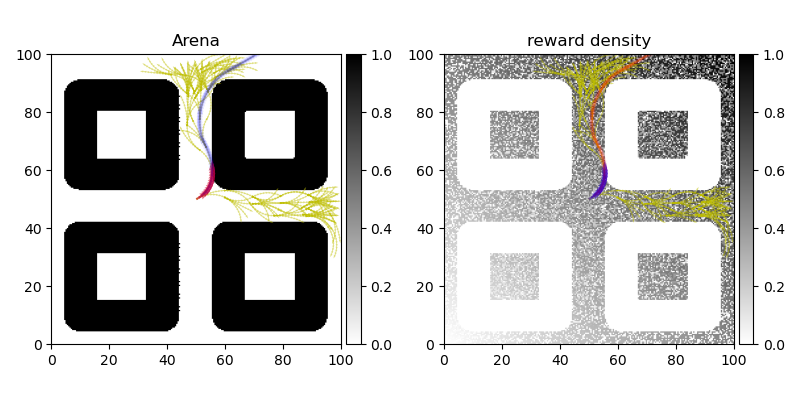
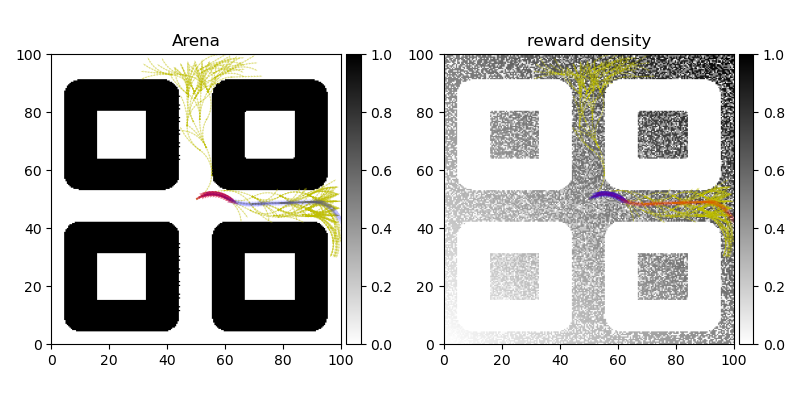
fixed collision bug

Changed region(s): [[0.5312, 0.12, 0.9375, 0.87], [0.1875, 0.12, 0.4375, 0.66], [0.5938, 0.63, 0.6875, 0.75]]

diff --git a/mcts/algorithm/mcts.py b/mcts/algorithm/mcts.py
@@ -102,7 +102,13 @@ class MCTS:
 
         if not self.root_node.children:
             return self.run(state, rewards, arena)
-        return self.best_action(self.root_node)
+        
+        if not self.root_node.children:
+            return None
+
+        max_index = np.argmax([child.reward / child.n_visits for child in self.root_node.children])
+
+        return self.root_node.children[max_index].primitive
 
     def _select(self, node):
         # Select this node if it has some unvisited primitives
@@ -130,7 +136,33 @@ class MCTS:
             max_index = np.argmax(ucb_metric)
             return self._select(node.children[max_index])
 
-    def boundary_check(self, action):
+
+
+    def _expand(self, parent):
+        # Randomly select an primitive from the available primitives
+        action_idx = parent.pending_primitives[0]
+        del parent.pending_primitives[0]
+        primitive = self.p_actions.get_sweep(parent.step, action_idx)
+
+        # Check whether this primitive is valid
+        coords = self.__mapping(primitive[:, :2], self.arena_bounds, self.row_bounds, self.col_bounds)
+        is_valid_move = self.__is_valid(coords, primitive)
+        # Create the child node and attach it to its parent
+        child = None
+        if is_valid_move:
+            pose = primitive[-1]
+            rewards = self.rewards[coords[:, 0], coords[:, 1]]
+            reward = np.sum(rewards, axis=0)
+            child = Node(pose, self.n_primitives, reward, primitive, parent)
+            parent.add_child(child)
+        return child
+
+    def __is_valid(self, coord, primitive):
+        is_inside_boundary = self.__check_boundary_overlap(primitive)
+        is_outside_obstacle = self.__is_move_in_obstacle(coord)
+        return is_inside_boundary and is_outside_obstacle
+
+    def __check_boundary_overlap(self, action):
         if np.any(action[:, 0] <= self.arena_bounds[0]):
             return False
         if np.any(action[:, 0] >= self.arena_bounds[1]):
@@ -141,33 +173,11 @@ class MCTS:
             return False
         return True
 
-    def collision_check(self, coords):
+    def __is_move_in_obstacle(self, coords):
         occupied = self.arena[coords[:, 0], coords[:, 1]]
         if np.any(occupied):
             return False
         return True
-
-    def _expand(self, parent):
-        # Randomly select an primitive from the available primitives
-        action_idx = parent.pending_primitives[0]
-        del parent.pending_primitives[0]
-        action = self.p_actions.get_sweep(parent.step, action_idx)
-
-        # Check whether this primitive is valid
-        coords = self.__mapping(action[:, :2], self.arena_bounds, self.row_bounds, self.col_bounds)
-        is_inside_boundary = self.boundary_check(action)
-        is_outside_obstacle = self.collision_check(coords)
-        is_valid_action = is_inside_boundary and is_outside_obstacle
-
-        # Create the child node and attach it to its parent
-        child = None
-        if is_valid_action:
-            pose = action[-1]
-            rewards = self.rewards[coords[:, 0], coords[:, 1]]
-            reward = np.sum(rewards, axis=0)
-            child = Node(pose, self.n_primitives, reward, action, parent)
-            parent.add_child(child)
-        return child
 
     def _simulate(self, node):
         # Default policy is moving forward
@@ -190,24 +200,6 @@ class MCTS:
         node.n_visits += 1
         if node.parent is not None:
             self._backpropagation(node.parent, reward)
-
-    def best_action(self, node):
-        assert len(node.pending_primitives) == 0
-        if not node.children:
-            raise ValueError(
-                "No valid primitive in current steps!\n"
-                "You might need to implement some 'turn around' engineering "
-                "tricks to solve this problem.")
-
-        ## Uncomment this block to use n_visits instead of expected reward
-        #  n_visits = [child.n_visits for child in node.children]
-        #  idx = np.argmax(n_visits)
-        #  best_child = node.children[idx]
-        #  print("Number of visits: ", n_visits)
-
-        values = [child.reward / child.n_visits for child in node.children]
-
-        return node.children[np.argmax(values)].primitive
 
     def get_paths(self, max_depth=None):
         
@@ -244,6 +236,7 @@ class MCTS:
 
 
     def __mapping(self, xy, bounds, max_row, max_col):
+        
         # x -> j
         j = (xy[:, 0] - bounds[0]) / (bounds[1] - bounds[0]) * max_col
         j = np.round(j, decimals=6)
